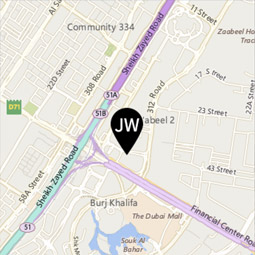
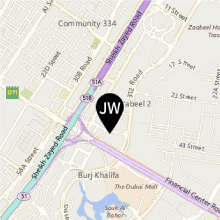
SLideshow update, mobile updates
Added slideshow back into mobile layout. Update photos and adjust mobile
elements. Still working on a fix for tablet. Version 14.

diff --git a/scss/main.css b/scss/main.css
@@ -1888,7 +1888,7 @@ header {
       margin: 0 auto;
       font-size: .9em; }
   .footer p {
-    font-size: .9em; } }
+    font-size: .75em; } }
 /*******************************
     Rock Star Styles
 ********************************/
@@ -2094,11 +2094,11 @@ header {
 
 #slideshow-wrap label:not(.arrows):not(.show-description-label) {
   position: absolute;
-  left: 42%;
+  left: 38%;
   bottom: 10%;
   z-index: 100;
-  width: 200px;
-  height: 100px;
+  width: 25%;
+  height: 20%;
   background-color: rgba(235, 235, 235, 0.65);
   cursor: pointer; }
   #slideshow-wrap label:not(.arrows):not(.show-description-label) p {
@@ -2217,11 +2217,13 @@ input[type=radio]#button-5:checked ~ .arrows#arrow-4 {
     font-size: 1.5em;
     text-transform: uppercase; }
 
-@media (min-width: 320px) and (max-width: 768px) {
+.description input[type=checkbox]:checked ~ .description-text {
+  opacity: 1; }
+
+@media (min-width: 320px) and (max-width: 992px) {
   #slideshow-wrap {
-    width: 83%;
-    margin: 1em auto 0;
-    display: none; }
+    width: 90%;
+    margin: 1em auto 0; }
 
   .description .description-text {
     padding-top: .5em;
@@ -2241,10 +2243,10 @@ input[type=radio]#button-5:checked ~ .arrows#arrow-4 {
       color: #FFF; }
     .description .description-text .topline {
       font-size: .75em;
-      text-transform: uppercase; } }
-.description input[type=checkbox]:checked ~ .description-text {
-  opacity: 1; }
+      text-transform: uppercase; }
 
+  #slideshow-wrap label:not(.arrows):not(.show-description-label) p {
+    font-size: .5em; } }
 /*******************************
     Cover Band Styles
 ********************************/
@@ -2506,11 +2508,7 @@ input[type=radio]#button-5:checked ~ .arrows#arrow-4 {
       #mobile-nav-wrap .teal span {
         position: absolute;
         top: 4.5em;
-        left: 1.5em; }
-
-  /* Footer for tablet */
-  .footer p {
-    font-size: 1em; } }
+        left: 1.5em; } }
 @media (min-width: 992px) {
   .large-text {
     font-size: 1.53em;

diff --git a/index.html b/index.html
@@ -3,8 +3,13 @@
   <head>
     <meta charset="utf-8">
     <meta http-equiv="X-UA-Compatible" content="IE=edge">
-    <meta name="viewport" content="width=device-width, initial-scale=1">
-    <!-- The above 3 meta tags *must* come first in the head; any other head content must come *after* these tags -->
+  <meta id="viewport" name=viewport content="width=device-width; initial-scale=1">
+      <script type="text/javascript">
+      if (screen.width >= 1024) {
+ document.getElementById("viewport").setAttribute("content", "width=480");
+}
+      </script>
+      <!-- The above 3 meta tags *must* come first in the head; any other head content must come *after* these tags -->
     <title>JW Marriott Dubai</title>
     
       <!-- For every page of the production site, the following header tag to be placed within the HEAD tag, before any other scripts. -->
@@ -16,13 +21,12 @@
     <script src="https://oss.maxcdn.com/html5shiv/3.7.2/html5shiv.min.js"></script>
     <script src="https://oss.maxcdn.com/respond/1.4.2/respond.min.js"></script>
     <![endif]-->
-      
+    
     <!-- ANGULARJS CDN -->
     <script src="https://ajax.googleapis.com/ajax/libs/angularjs/1.4.7/angular.min.js"></script>
     <!-- Custom Stylesheet for landing page -->
     <link rel="stylesheet" href="https://maxcdn.bootstrapcdn.com/font-awesome/4.4.0/css/font-awesome.min.css">
     <link rel="stylesheet" href="scss/main.css">
-    
   </head>
   <body>
     <div class="wrapper">

diff --git a/scss/sections/_slideshow.scss b/scss/sections/_slideshow.scss
@@ -54,11 +54,11 @@
 
 #slideshow-wrap label:not(.arrows):not(.show-description-label) {
     position: absolute;
-    left: 42%;
+    left: 38%;
     bottom: 10%;
     z-index: 100;
-    width: 200px;
-    height: 100px;
+    width: 25%;
+    height: 20%;
     background-color: rgba(235,235,235,.65);
     cursor: pointer;
      
@@ -172,11 +172,12 @@ input[type=radio]#button-5:checked~.arrows#arrow-4 { left: -73px }
     
 }
 
-@media (min-width: 320px) and (max-width: 768px) {
+.description input[type=checkbox]:checked~.description-text { opacity: 1 }
+
+@media (min-width: 320px) and (max-width: 992px) {
     #slideshow-wrap {
-        width: 83%;
+        width: 90%;
         margin: 1em auto 0;
-        display: none;
     }
     
     .description .description-text {
@@ -202,5 +203,9 @@ input[type=radio]#button-5:checked~.arrows#arrow-4 { left: -73px }
             text-transform: uppercase;
         }
     }
+    #slideshow-wrap label:not(.arrows):not(.show-description-label) {
+            
+                p {font-size: .5em;}
+        }
  }
-.description input[type=checkbox]:checked~.description-text { opacity: 1 }
+

diff --git a/scss/_media.scss b/scss/_media.scss
@@ -310,13 +310,6 @@
         }
 
     }
-    
-    /* Footer for tablet */
-    .footer {
-         p {
-            font-size: 1em;    
-         }
-    }
 }
 
 

diff --git a/scss/_footer.scss b/scss/_footer.scss
@@ -49,7 +49,7 @@
             }
         }
         p {
-            font-size: .9em;
+            font-size: .75em;
 
         }
     }

diff --git a/scss/sections/_rock-star.scss b/scss/sections/_rock-star.scss
@@ -91,7 +91,6 @@
     display: none;
 }
 
-
 /** FULL WIDTH VIEW MEDIA QUERY **/
 
 @media (min-width: 992px) {
